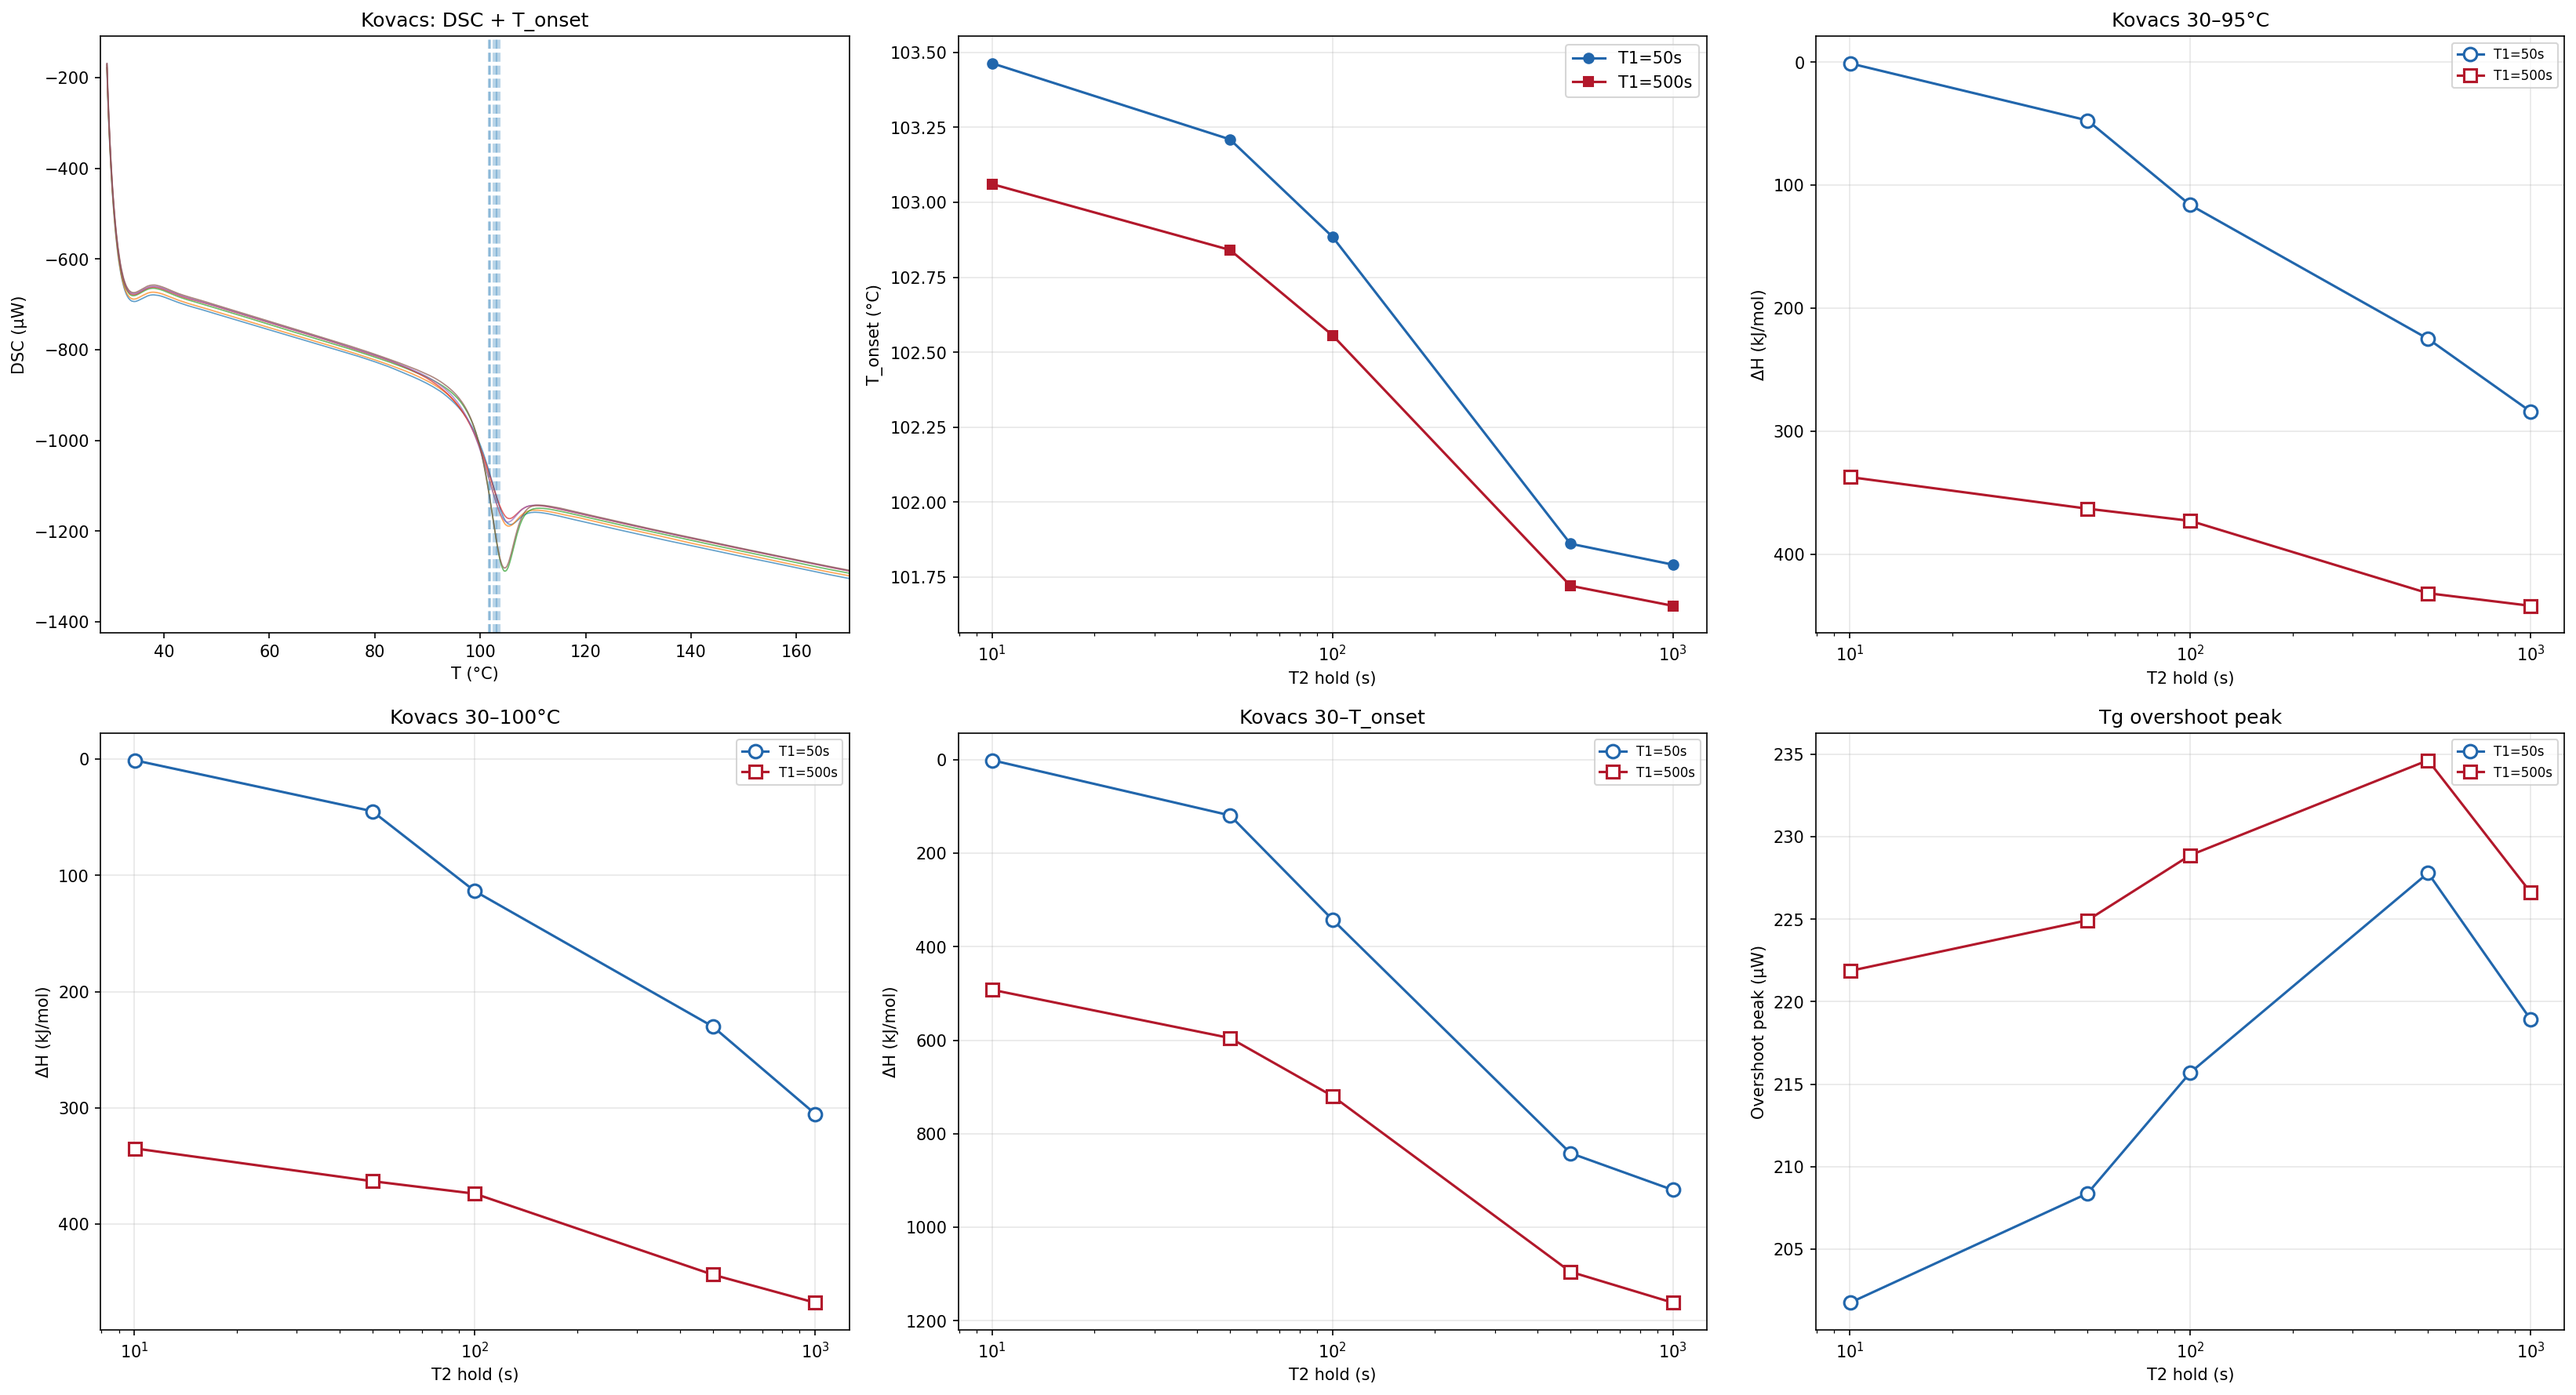
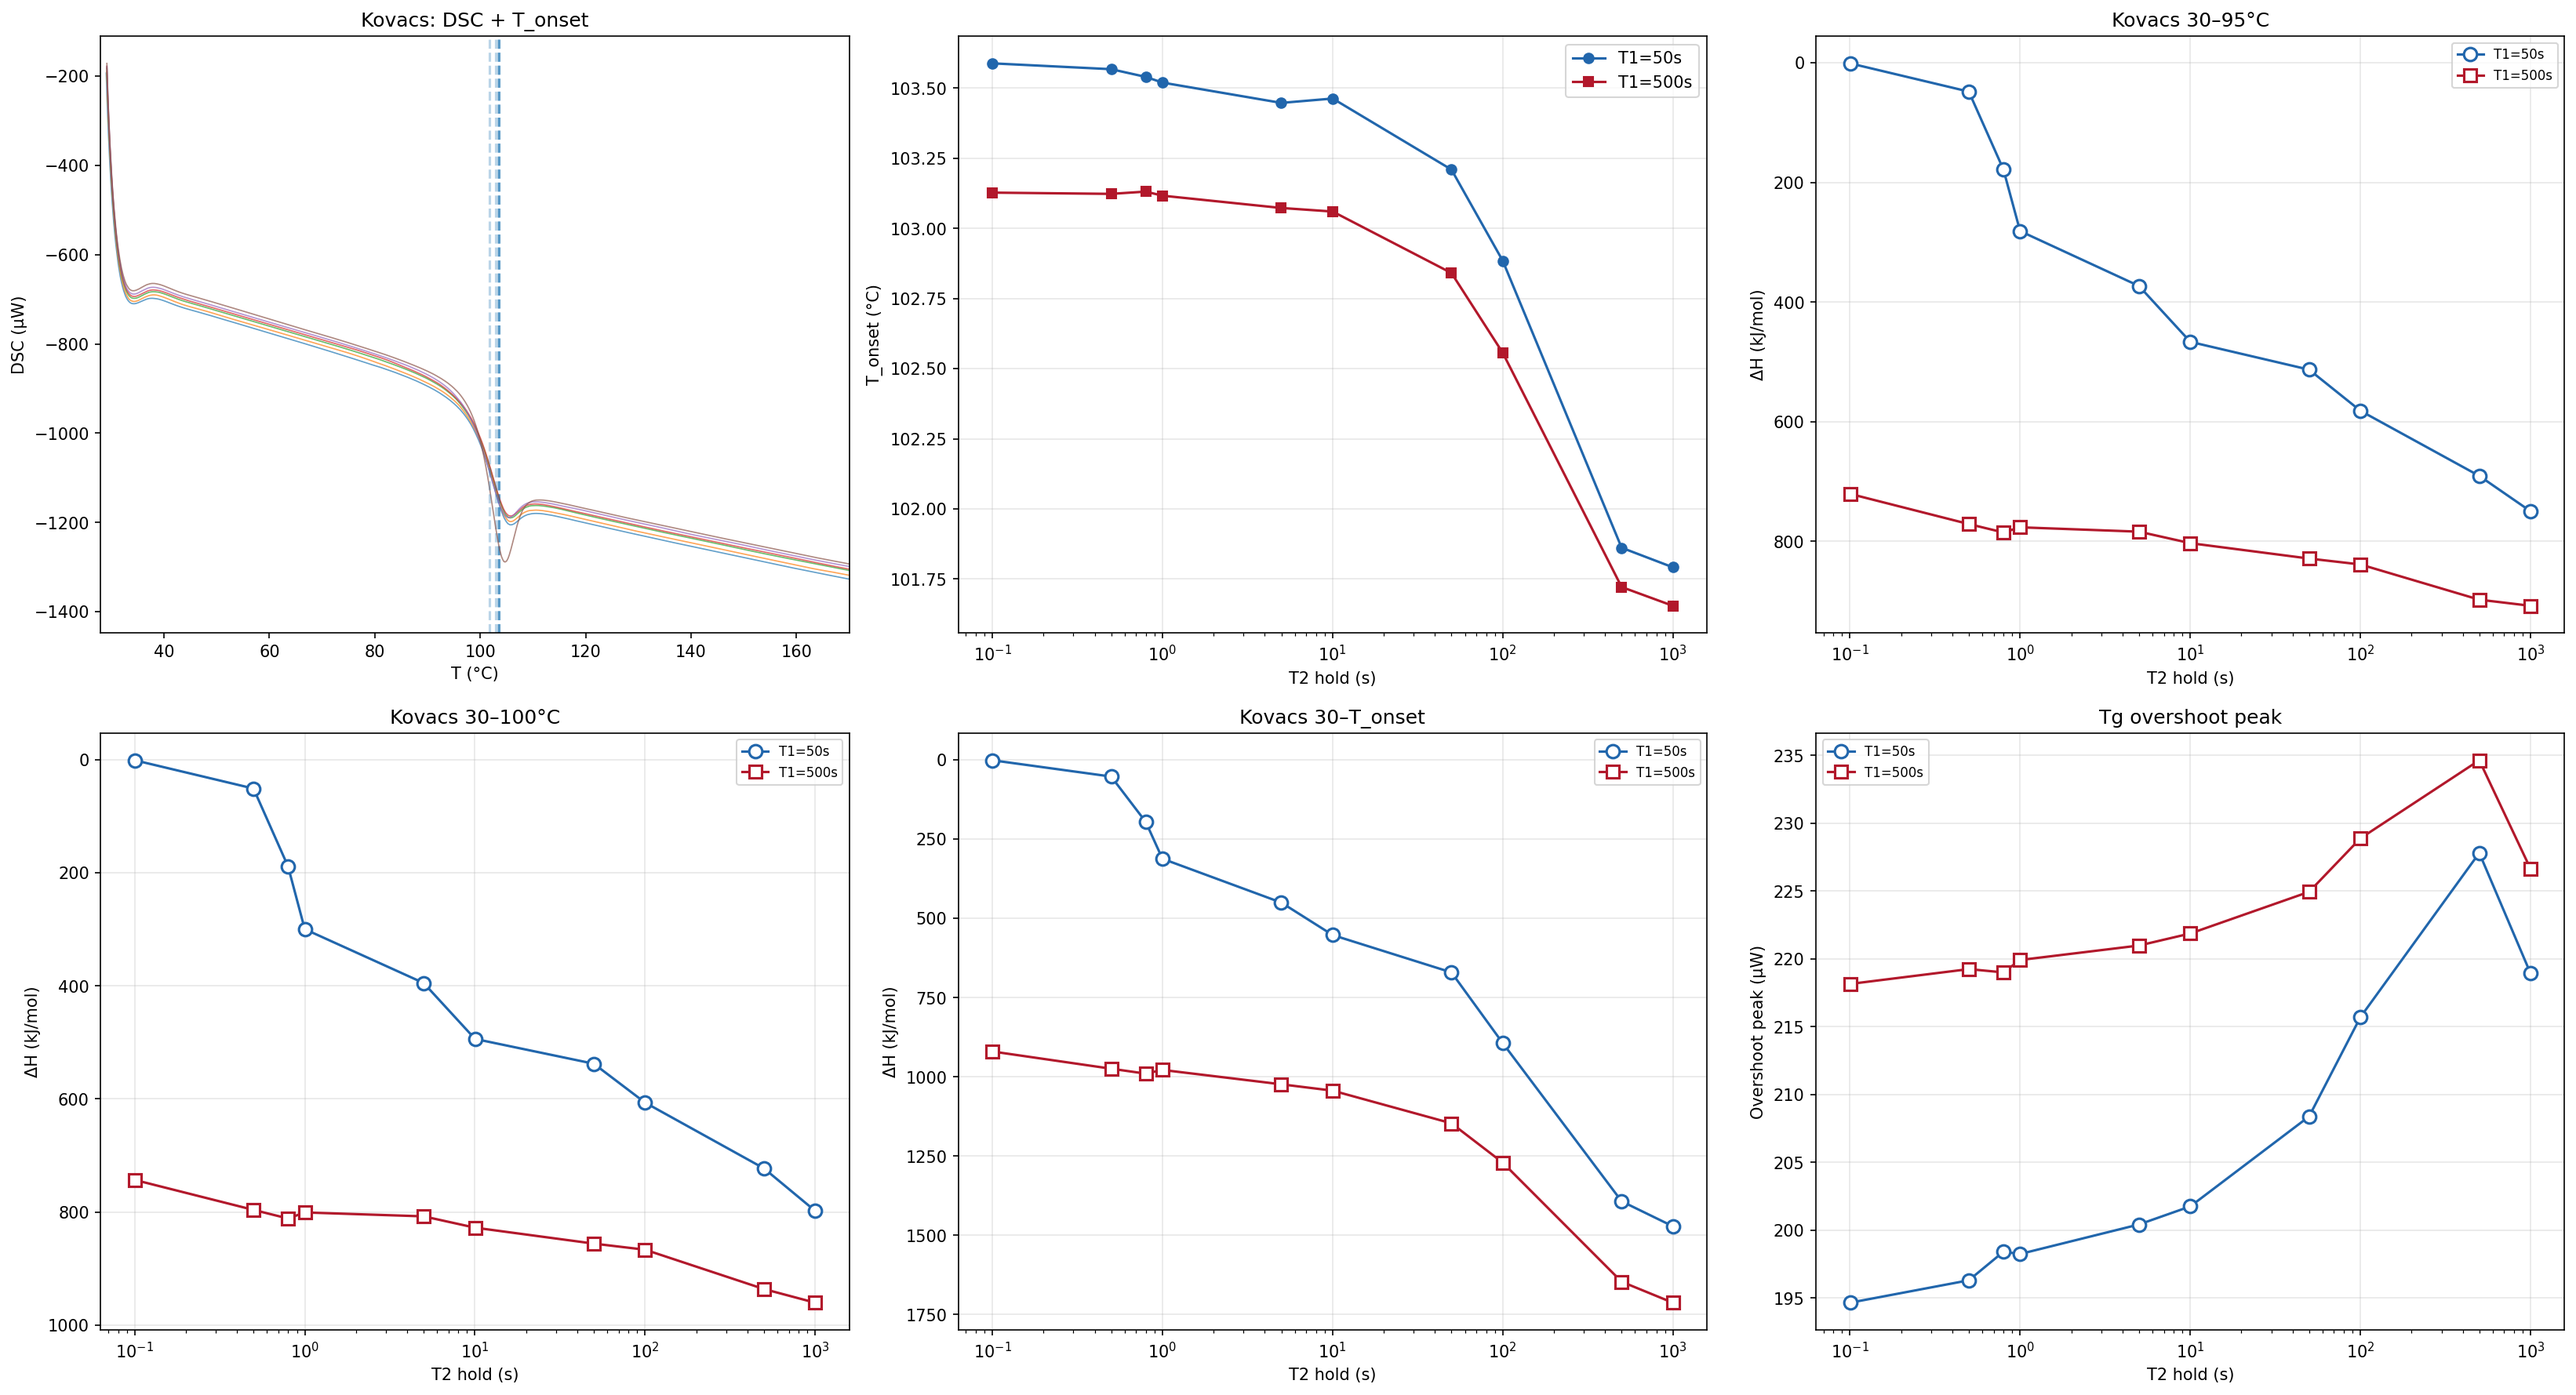
Include all 10 annealing time points (remove t<6s filter)
All T2 values from 0.1s to 1000s now included in v2 processing.
Short-time points show fast initial relaxation (instrument-limited).

diff --git a/src/process_twosteps_v2.py b/src/process_twosteps_v2.py
@@ -168,12 +168,10 @@ def main():
         conditions.append({'ramp_idx':idx+1, 'T1_hold_min':t1_hold, 'T2_hold_min':t2_hold,
                           'start_idx':s, 'end_idx':e})
 
-    # Convert to seconds, filter
-    MIN_HOLD = 0.1 * 60
+    # Convert to seconds
     for c in conditions:
         c['T1_hold_s'] = c['T1_hold_min']*60 if c['T1_hold_min'] else None
         c['T2_hold_s'] = c['T2_hold_min']*60 if c['T2_hold_min'] else None
-    conditions = [c for c in conditions if c['T2_hold_s'] and c['T2_hold_s'] >= MIN_HOLD]
 
     # ── Analyze each ramp: find T_onset, compute integrals for multiple ranges ──
     fixed_highs = [90, 95, 100, 105, 110]

diff --git a/src/process_kovacs_v2.py b/src/process_kovacs_v2.py
@@ -143,12 +143,10 @@ def main():
         conditions.append({'ramp_idx':idx+1, 'T1_hold_min':t1_hold, 'T2_hold_min':t2_hold,
                           'start_idx':s, 'end_idx':e})
 
-    # Convert to seconds, filter
-    MIN_HOLD = 0.1 * 60
+    # Convert to seconds
     for c in conditions:
         c['T1_hold_s'] = c['T1_hold_min']*60 if c['T1_hold_min'] else None
         c['T2_hold_s'] = c['T2_hold_min']*60 if c['T2_hold_min'] else None
-    conditions = [c for c in conditions if c['T2_hold_s'] and c['T2_hold_s'] >= MIN_HOLD]
 
     fixed_highs = [90, 95, 100, 105, 110]
     range_labels = [f'30–{h}°C' for h in fixed_highs] + ['30–T_onset']

diff --git a/src/process_onestep_v2.py b/src/process_onestep_v2.py
@@ -140,12 +140,9 @@ def process_onestep(data_file, sheet, T_anneal, label):
         else: t_hold = None
         conditions.append({'ramp_idx':idx+1, 'hold_min':t_hold, 'start_idx':s, 'end_idx':e})
 
-    # Convert to seconds, filter
-    MIN_HOLD = 0.1 * 60
+    # Convert to seconds
     for c in conditions:
         c['hold_s'] = c['hold_min']*60 if c['hold_min'] else None
-    conditions = [c for c in conditions if c['hold_s'] and c['hold_s'] >= MIN_HOLD]
-    for i, c in enumerate(conditions): c['ramp_idx'] = i+1
 
     fixed_highs = [90, 95, 100, 105, 110]
     range_labels = [f'30–{h}°C' for h in fixed_highs] + ['30–T_onset']
